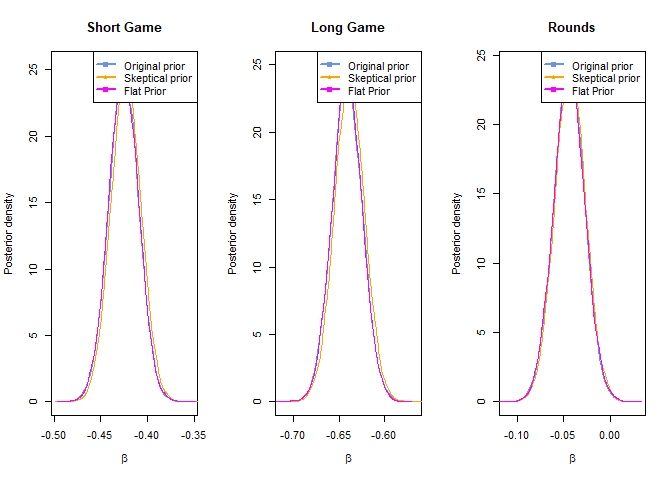
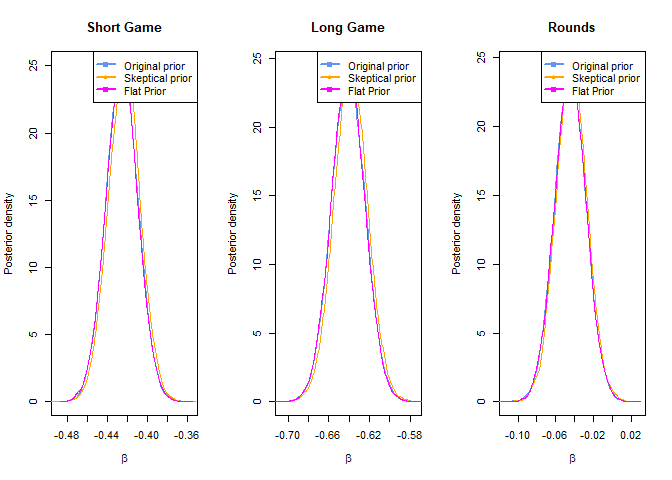
Updating Script

diff --git a/markdown_script.md b/markdown_script.md
@@ -18,53 +18,47 @@ effects. Convergence diagnostics confirm proper MCMC mixing, posterior
 predictive checks validate model fit, and sensitivity analyses
 demonstrate that conclusions are robust across reasonable prior
 specifications. Results suggest that long-game performance has a
-statistically larger impact on scoring than short-game
-performance—contradicting Bobby Locke’s famous saying “You drive for
-show, but putt for dough”, however the different in effect size is
-minute.
+statistically larger impact on scoring than short-game performance.
 
 ## Introduction
 
-Growing up as a competitive golfer, I spent countless hours on the
-driving range, in short-game practice areas, and on putting greens. In
-the world of golf, there is a general idea that while having good long
-game is needed, what makes a golfer great is their shortgame. Bobby
-Locke, regarded as one of the greatest golfers said famously that “You
-drive for show, but putt for dough”(BBC Sport, 2024). Yet I have always
-been skeptical.
+Growing up as a competitive golfer, I spent many hours on the driving
+range, and in short-game practice areas. In the world of golf, there is
+a general idea that while having a good long game is needed, what makes
+a golfer great is their short game. In the 1950s, Bobby Locke, regarded
+as one of the greatest golfers coined the phrase : “You drive for show,
+but putt for dough”(BBC Sport, 2024). Yet I have always been skeptical.
 
-I always wondered if this idea was just an old saying or if it was
-really true. Anecdotally, I’ve watched players with mediocre putting
-games win tournaments because their long game was exceptional. And
-conversely, I’ve seen gifted putters struggle because their driving was
-inconsistent. This saying was coined prior to modern gold where advanced
-training, technology and coaching existed. This raises the question:
+I’ve watched players with mediocre putting games win tournaments because
+their long game was exceptional. I have also seen gifted putters
+struggle because their driving was inconsistent. I am not suggesting
+that Locke was wrong, but since the 1950s, equipment and training has
+advanced , clubs are tailored, and golf balls are optimized for distance
+and spin characteristics. A 2024 study even found a “positive
+correlation between technological advancements in golf equipment and
+improved performance” (Lasunción, C. N.,2024) .This raises the question:
 does Locke’s wisdom still hold in today’s professional golf, or has the
 game fundamentally changed?
 
-Professional golf has evolved substantially since Locke’s day in the
-1950s. Equipment has advanced clubs are more forgiving, golf balls are
-optimized for distance and spin characteristics. A 2024 study from even
-found a “positive correlation between technological advancements in golf
-equipment and improved performance.” (Lasunción, C. N.,2024)
-
-The PGA Tour has also professionalized its data collection, introducing
+The PGA Tour has made advancements in its data collection, introducing
 metrics like Strokes Gained, which isolate performance in specific
 components of the game (driving, approach shots, short game, and
-putting) against the field average. These metrics provide an
-unprecedented opportunity to quantitatively test the relative importance
-of different game components.
+putting) against the field average. These metrics provide an opportunity
+to quantitatively test the relative importance of different game
+components.
 
-This report develops a Bayesian linear regression model to compare the
-effects of long-game versus short-game performance on professional
-golfers’ average scores using 2018 PGA Tour season data. Rather than
-making arbitrary choices about which performance metrics to include, I
-construct composite indices that represent long game as the aggregation
-of off-the-tee and approach shot performance, and short game as the
-aggregation of around-the-green and putting performance. By estimating
-and comparing the posterior distributions of their respective effects on
-average score, I can directly assess whether long game or short game has
-a greater affect on the average score of a player.
+As such, this report develops a Bayesian linear regression model to
+compare the effects of long-game versus short-game performance on
+professional golfers’ average scores using 2018 PGA Tour season data
+while accounting for the number of rounds played. Composite metrics that
+represent long game as the aggregation of off-the-tee and approach shot
+performance, and short game as the aggregation of around-the-green and
+putting performance were constructed. By estimating and comparing the
+posterior distributions of their respective effects on average score, I
+can directly assess whether long game or short game has a greater effect
+on the average score of a player. Rounds played were introduced as a
+covariate in the model as well since it represents exposure in this
+scenario and therefore affects both the response and the predictors.
 
 The methodology employed is Bayesian inference using Markov chain Monte
 Carlo sampling in JAGS.
@@ -97,13 +91,14 @@ str(pga_18)
     ##  $ SG.ARG            : num  -0.027 0.194 -0.137 0.273 0.026 0.253 -0.027 -0.122 -0.186 0.235 ...
     ##  $ Money             : chr  "$2,680,487" "$2,485,203" "$2,700,018" "$1,986,608" ...
 
-*Quantifying Long Game and Short Game* To fairly test the effect of long
-game vs short game on scoring success, we must properly define what we
-mean by these terms. Many factors go in to each respectively. Not only
-number of shots, but distance, accuracy are important factors. Within
-each grouping it can even get more nuanced as short game incorporates
-both chipping and putting and long game incorporates driving and iron
-play.
+*Quantifying Long Game and Short Game*
+
+To fairly test the effect of long game vs short game on scoring success,
+we must properly define what we mean by these terms. Many factors go in
+to each respectively. Not only number of shots, but distance, accuracy
+are important factors. Within each grouping it can even get more nuanced
+as short game incorporates both chipping and putting and long game
+incorporates driving and iron play.
 
 The PGA tour has developed “SG” metrics or rather “Strokes Gained” as
 seen above. Strokes Gained is a comparative performance metric that
@@ -161,13 +156,12 @@ around 71 strokes with no extreme outliers indicating that a normal
 likelihood is appropriate. Both Long Game and Short Game composites are
 approximately normally distributed around zero with long game being
 slightly left skewed. Since strokes gained center on field average (=0)
-this makes sense.
+this makes sense. The distribution of Rounds Played is fairly uniform
+across the 50-110 range, indicating substantial variation in tournament
+participation among players.
 
-The distribution of the response suggest no violations of the normality
-assumption required for our Bayesian regression model. Although long
-game displays some skewness, the normality assumption in our model
-applies primarily to the response variable and residuals so it is not
-problematic.
+The distribution of the response suggests no violations of the normality
+assumption required for our Bayesian regression model.
 
 ``` r
 par(mfrow=c(1,3))
@@ -185,24 +179,33 @@ abline(lm(Average.Score~Rounds,data=pga_18),col='purple')
 ![](markdown_script_files/figure-gfm/unnamed-chunk-3-1.png)<!-- -->
 
 Both Short Game and Long Game have a roughly linear relationship with
-Average Score. As short game ability, score decreases. As long game
-increases, score decreases.
-
-This suggests that if your short game is better than tour average, your
+Average Score. As a short and long game ability, score decreases. This
+suggests that if your short game is better than tour average, your
 average score is lower and if your long game is better than tour
 average, your average score is lower.
+
+Average Score shows a weak negative relationship with Rounds Played.
+That is, golfers who compete in more rounds tend to have slightly lower
+average scores. Since participation seems to be somewhat related to
+average score, this motivates its inclusion in modeling as a confounding
+variable.
 
 ### Bayesian Model Specification
 
 $$ Y_i \sim \text{Normal}(\mu_i,\sigma^2) $$
 
-$$\mu_i=\beta_0+\beta_1\text{Short Game}_i+\beta_2\text{Long Game}_i$$
+$$\mu_i=\beta_0+\beta_1\text{Short Game}_i+\beta_2\text{Long Game}_i+\beta_3Rounds_i$$
 
 $$\beta_0 \sim \text{Normal}(71,2^2)$$
 
-$$\beta_1,beta_2 \sim \text{Normal}(0,5^2)$$
+$$\beta_1,\beta_2, \beta_3 \sim \text{Normal}(0,5^2)$$
 
 $$\sigma^2 \sim \text{Inverse-Gamma}(0.1,0.1)$$
+
+Notice that rounds was chosen to be included as the a confounding
+variable. Players who compete in more rounds have more experience (for
+that season) and reps, which could improve performance consistency and
+average score independent of long/short game skill.
 
 Scatterplots suggested approximately linear relationships between the
 predictors and Average.Score, while the response distribution appeared
@@ -269,9 +272,7 @@ length(Y)
 
     ## [1] 193
 
-After removing missing values, we have 193 observations. It should be
-noted that long game ans short game are already on comparable scales
-(both measured in strokes gained) and as such were not standardized.
+After removing missing values, we have 193 observations.
 
 ### MCMC Implemenatation
 
@@ -376,10 +377,11 @@ round(effectiveSize(samples),1)
 ```
 
     ## beta[1] beta[2] beta[3] 
-    ## 48072.5 42231.8 42622.3
+    ## 47023.0 41859.5 41023.7
 
-The effective sample sizes (44276.0,46417.6) are substantially larger
-than the number of iterations, confirming efficient MCMC sampling.
+The effective sample sizes ( 47079.0, 40534.4, 41284.6) are
+substantially larger than the number of iterations, confirming efficient
+MCMC sampling.
 
 *Gelman-Rubin Statistic*
 
@@ -433,8 +435,8 @@ sum
     ## 2. Quantiles for each variable:
     ## 
     ##              2.5%    25%    50%    75%  97.5%
-    ## Short Game -0.456 -0.436 -0.425 -0.415 -0.394
-    ## Long Game  -0.673 -0.652 -0.641 -0.630 -0.609
+    ## Short Game -0.457 -0.436 -0.426 -0.415 -0.394
+    ## Long Game  -0.674 -0.652 -0.641 -0.630 -0.609
     ## Rounds     -0.077 -0.055 -0.044 -0.033 -0.012
 
 The expected value of the regression coefficient of Short Game is -0.426
@@ -468,12 +470,13 @@ importance compared to the era when Locke’s maxim was coined.
 To ensure that the conclusions found dont hinge on the choice of prior,
 we conduct a sensitivity analysis. We will test two additional priors:
 
-1.  “Skeptical” prior: $\beta_1,\beta_2 \sim \text{Normal}(0,0.5^2)$
+1.  “Skeptical” prior:
+    $\beta_1,\beta_2,\beta_3 \sim \text{Normal}(0,0.5^2)$
 
 - A prior belief that changes in strokes gained shouldn’t cause dramatic
   changes in average score
 
-2.  Flat prior: $\beta_1,\beta_2 \sim \text{Normal}(0,100^2)$
+2.  Flat prior: $\beta_1,\beta_2,\beta_3 \sim \text{Normal}(0,100^2)$
 
 - Essentially lets the data fully determine the posterior.
 
@@ -646,8 +649,8 @@ sum
     ## 2. Quantiles for each variable:
     ## 
     ##              2.5%    25%    50%    75%  97.5%
-    ## Short Game -0.462 -0.442 -0.431 -0.420 -0.399
-    ## Long Game  -0.685 -0.664 -0.654 -0.643 -0.622
+    ## Short Game -0.462 -0.441 -0.431 -0.420 -0.399
+    ## Long Game  -0.685 -0.665 -0.654 -0.643 -0.622
 
 The expected value of the regression coefficient of Short Game is -0.431
 while the expected value of the regression coefficient of Long Game is
@@ -663,42 +666,35 @@ with the main model.
 
 ## Discussion and Future Work
 
-This analysis applied Bayesian linear regression to see if long game or
-short game had a greater impact on professional golfer’s average scores,
-specifically in the 2017-2018 season. Composite metrics were made in
-order to quantify a player’s long game ans short game. Using these
-metrics, we estimated the posterior distributions of their effects on
-average score. The main findings were:
+This analysis applied Bayesian linear regression to test whether long
+game or short game has a greater impact on professional golfers’ average
+scores in the 2018 PGA Tour season. Composite metrics were constructed
+to quantify each component, and posterior distributions of their effects
+on average score were estimated. Main findings:
 
 1.  Both Long Game and Short Game substantially influence average score,
-    with posterior mean effects of -1.050 and -1.015 strokes per
+    with posterior mean effects of -0.674 and -0.457 strokes per
     standard deviation increase, respectively.
 
 2.  The posterior probability that Long Game has a larger effect than
-    Short Game is 79.16%, providing moderate-to-strong evidence that
-    driving and approach play have a measurably larger impact on scoring
-    than short-game execution.
-
-3.  The credible intervals for both effects overlap substantially (Long
-    Game: \[-1.100, -0.999\], Short Game: \[-1.089, -0.940\]),
-    indicating that while the effects are statistically distinguishable,
-    their practical magnitudes are similar.
+    Short Game is 100% when controlling for rounds played, providing
+    strong evidence that driving and approach play have a greater impact
+    on scoring than short-game execution.
 
 A sensitivity analysis was conducted and demonstrated that these
 conclusions are robust across different prior specifications. Therefore
 we can say that the data drove inference rather than the prior.
 
-Our initial goal was to test the validity of the “You drive for show,
-but putt for dough” assertion in modern golf. Our findings suggests this
+The initial goal was to test the validity of the “You drive for show,
+but putt for dough” assertion in modern golf. The findings suggest this
 wisdom requires revision for the state of golf today. Long game
-performance appears to have slightly but measurably larger influence on
-average score than short game performance.
+performance appears to have a measurably larger influence on average
+score than short game performance.
 
 It should be noted that this does not diminish the importance of short
 game. Both components proved to be substantially important for scoring
-success. The difference in effect sizes is modest (0.035), and credible
-intervals overlap substantially. A more accurate saying may be ” You
-need to both drive and putt for the dough, but drive slightly more.”
+success. A more accurate saying may be ” You need to both drive and putt
+for the dough, but drive slightly more.”
 
 *Limitations*
 
@@ -711,9 +707,8 @@ highlight the limitations of this analysis.
 
 2.  **Metric Selection:** This analysis utilized the strokes gained
     metrics. While this is a well-known metric in the field, it only
-    represents one operalization of performance. Given our effect sizes
-    were so similar, it is not unprecedented to say alternative metrics
-    might yield different conclusions.
+    represents one approach to measuring performance. Alternative
+    metrics might yield different conclusions.
 
 3.  **Population:** All players are PGA tour professionals, who are
     experts in the game of golf. As such, these findings should not be
@@ -730,12 +725,12 @@ highlight the limitations of this analysis.
 Given more time, the following avenues would have been explored:
 
 - **Multi-year analysis:** Expanding the analysis from Locke’s time
-  (1950’s) to present ould test whether the relative importance of long
-  and short games has shifted over time.
+  (1950’s) or as far back as the stats go to present could test whether
+  the relative importance of long and short games has shifted over time.
 
 - **Hierarchical modeling:** A multilevel model treating individual
   golfers as random effects could account for within-player consistency
-  and provide player-specific estimates of long vs. short game
+  and provide player specific estimates of long vs. short game
   importance.
 
 ## Conclusion
@@ -743,21 +738,18 @@ Given more time, the following avenues would have been explored:
 This Bayesian analysis provides quantitative evidence that in the 2018
 PGA Tour season, Long Game performance (driving and approach shots) had
 a measurably larger impact on average score than Short Game performance
-(short-game shots and putting). However, both components substantially
-influence scoring, and the difference in effect sizes is modest. While
-this finding challenges the long standing connotation that short game is
-more important than long game, it does not render it obsolete.Instead,
-it suggests that professional golf in the modern era demands excellence
-across all facets of the game, with perhaps a marginal emphasis on
-distance and consistency off the tee.
+(around the green shots and putting). However, both components
+substantially influence scoring. While this finding challenges the long
+standing connotation that short game is more important than long game,
+it does not render it obsolete. Instead, it suggests that professional
+golf in the modern era demands excellence across all facets of the game,
+with perhaps a slightly greater emphasis on distance and consistency off
+the tee.
 
-For golfers seeking to improve, these results suggest that neither
-component should be neglected. Long-game development may yield slightly
-greater scoring improvement per unit effort invested, but this marginal
-advantage should not come at the expense of short-game proficiency. The
-data argue for balanced development of both skills, with the
-understanding that in contemporary professional golf, all components
-matter significantly.
+For professional golfers seeking to improve, the results suggest that
+neither component should be neglected. While long-game development may
+offer a slightly greater return on investment, this marginal advantage
+should not come at the expense of short-game proficiency.
 
 ## References
 
